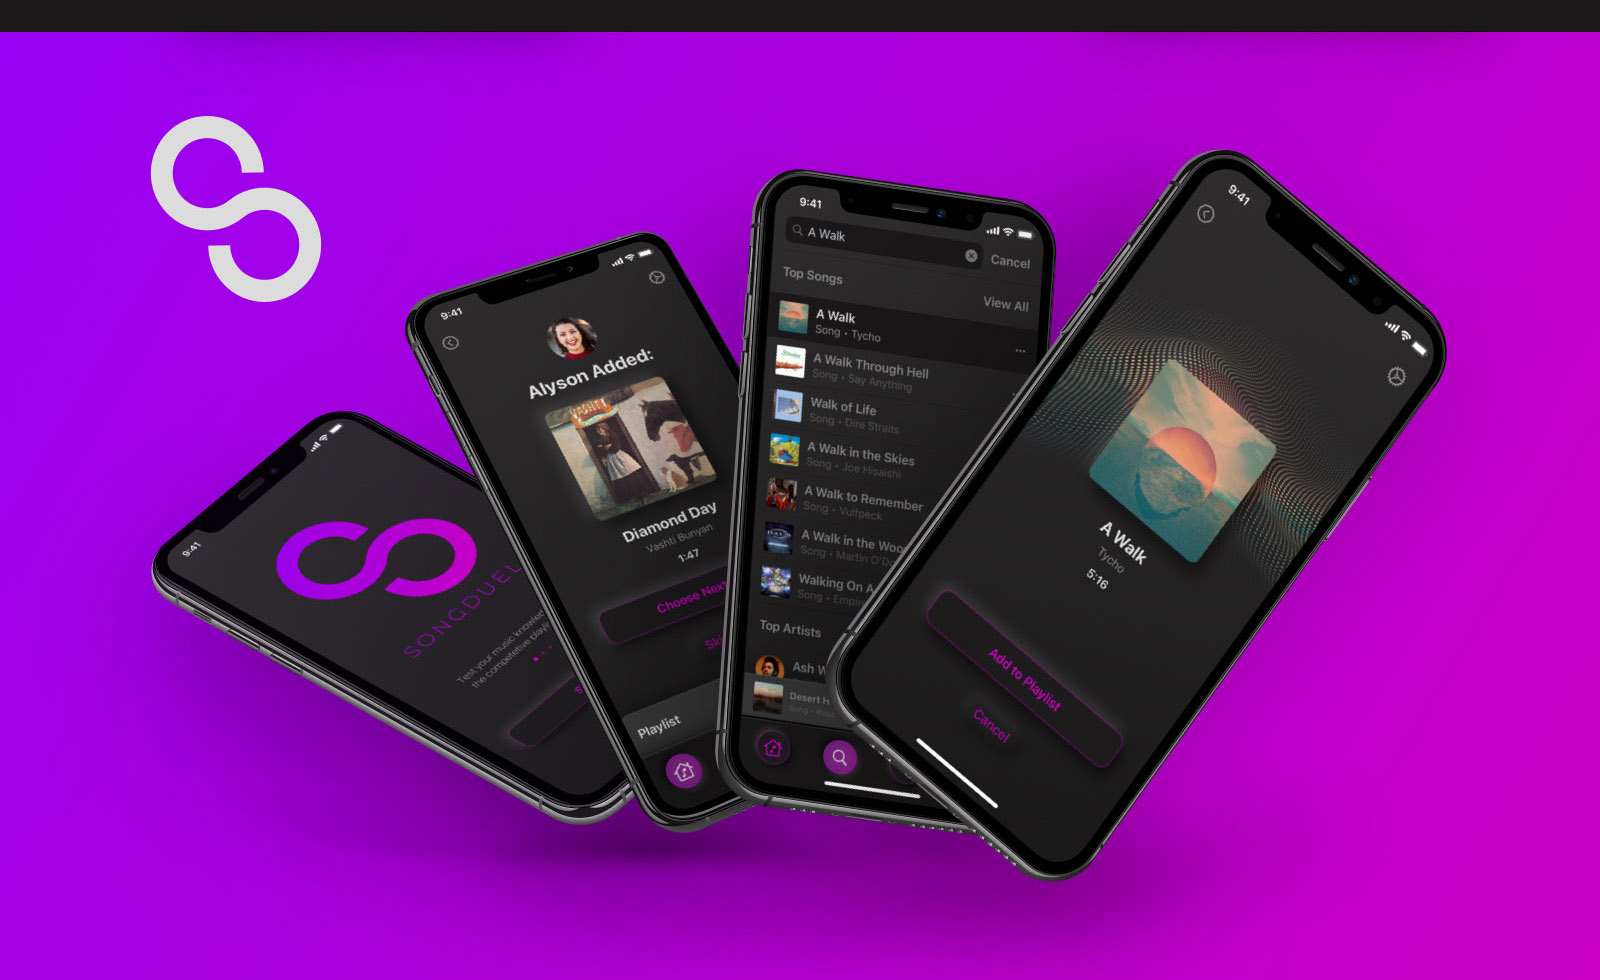
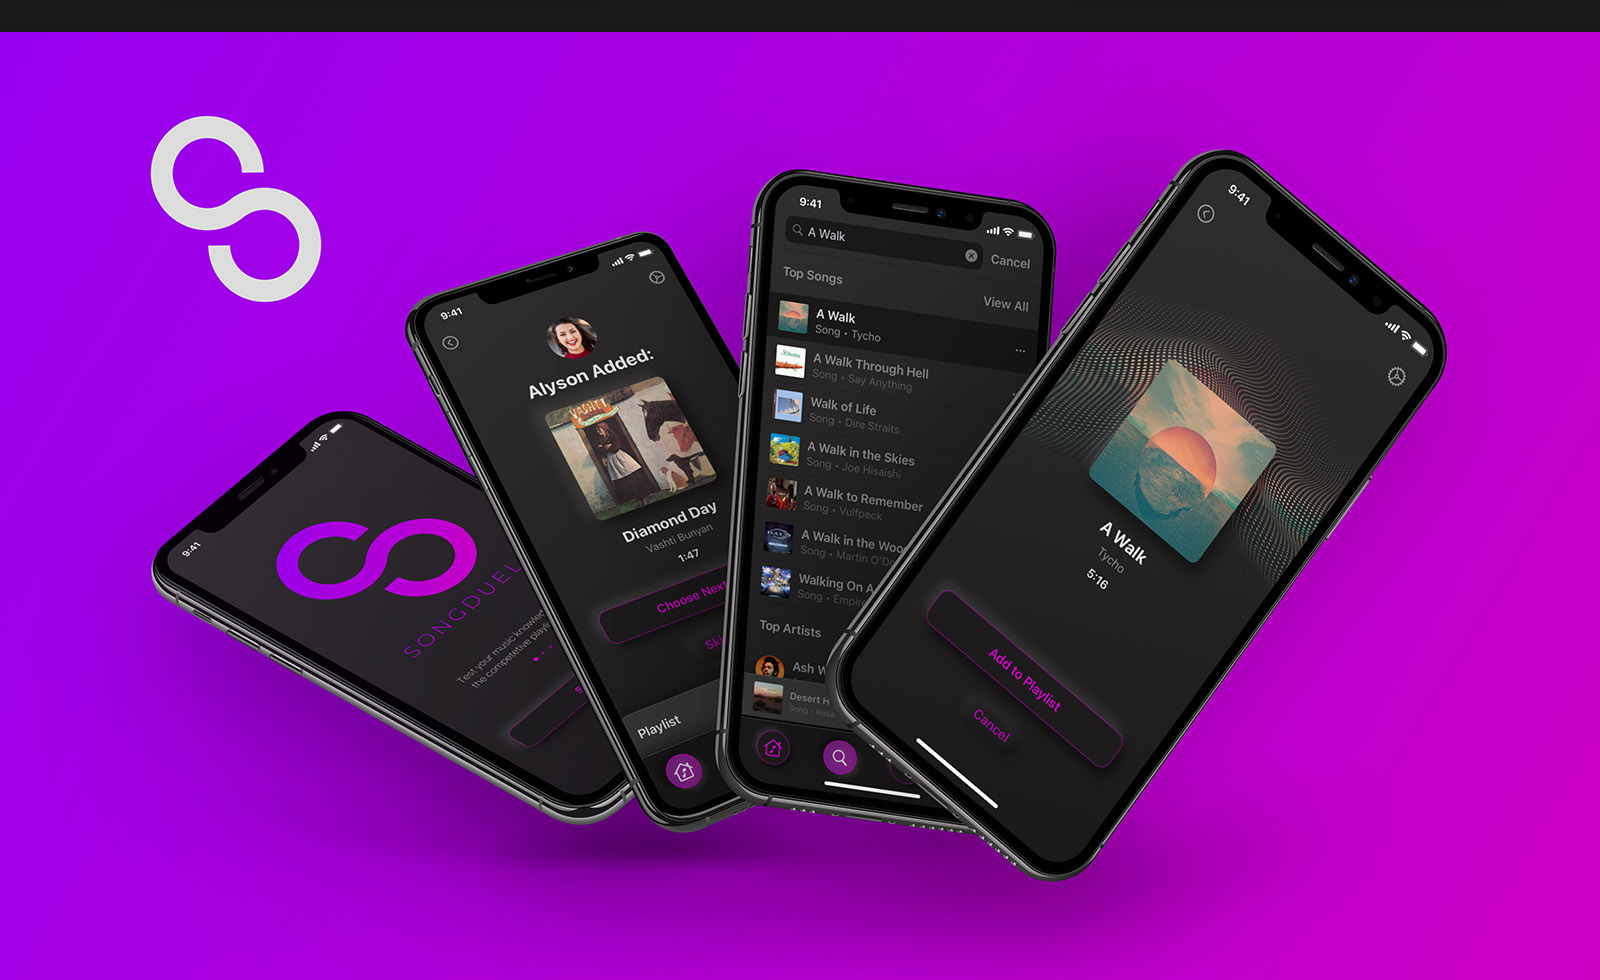
resave all img and change background color on songduel page
resave all imgs to adjust for color discrepancy between sketch and photoshop and change background color on songduel page in style.css file.

diff --git a/css/style.css b/css/style.css
@@ -6,7 +6,7 @@ Secondary Color (Peach): #e39898
 Secondary Color (Green): #8da485
 
 Songduel Page Colors:
-(Dark Grey): #1a1919
+(Dark Grey): #1a1819
 (Off White): #dcdcdc
 SongDuel Link Colors: Unvisited, Hover, Focus, Visited: #cb00c3, Active: #9600f0
 */
@@ -219,10 +219,10 @@ footer {
 
 /* SongDuel Page */
 .songduel-main {
-  background-color: #1a1919;
+  background-color: #1a1819;
 }
 .songduel-light {
-  color: #1a1919;
+  color: #1a1819;
   background-color: #dcdcdc;
   display: inline-block;
   width: 100%
